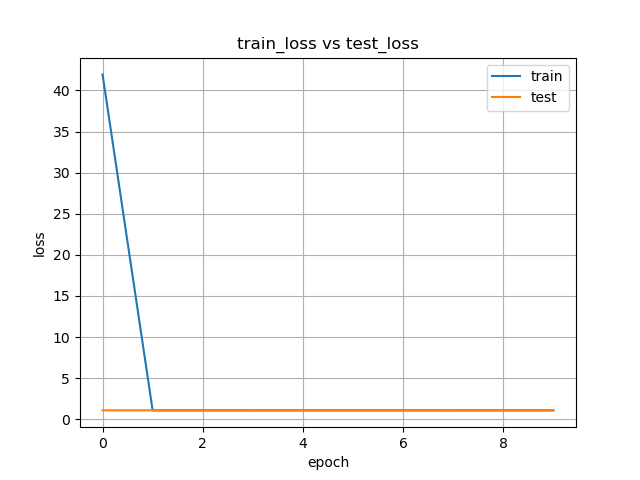
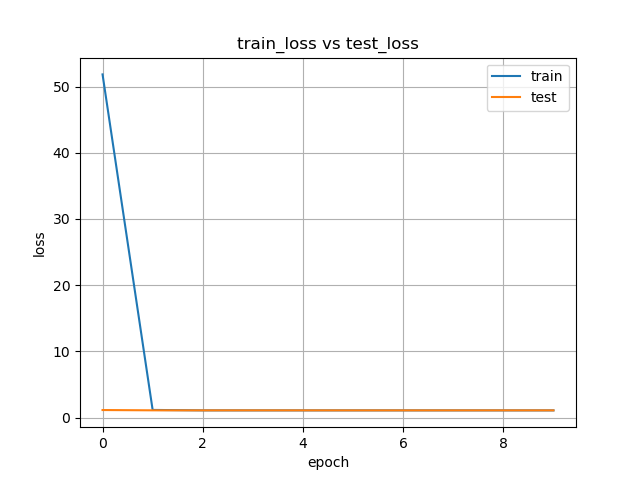
ss

diff --git a/main.py b/main.py
@@ -276,7 +276,7 @@ model.compile(loss='categorical_crossentropy', optimizer='adam', metrics=['acc']
 
 start = datetime.datetime.now()
 # do the training
-hist = model.fit(train_x, train_y, validation_data=(test_x, test_y), callbacks=[CSVLogger('log-{}.csv'.format(scenario), separator=';')], batch_size=batch_size, epochs=number_epoch, verbose=1)
+hist = model.fit(train_x, train_y, validation_data=(test_x, test_y), callbacks=[CSVLogger('log-{}.csv'.format(scenario), separator=',')], batch_size=batch_size, epochs=number_epoch, verbose=1)
 end = datetime.datetime.now()
 interval = end - start
 f = open('info-{}.txt'.format(scenario), 'w')

diff --git a/parameters.py b/parameters.py
@@ -1,6 +1,6 @@
 """## Experiment scenario & parameter"""
 
-scenario = 2 # 1 (3D-CNN) / 2 (C-RNN) / 3 (Pose-RNN)
+scenario = 1 # 1 (3D-CNN) / 2 (C-RNN) / 3 (Pose-RNN)
 
 frame_sequences = 20
 actions = ['walking', 'handwaving', 'boxing']
